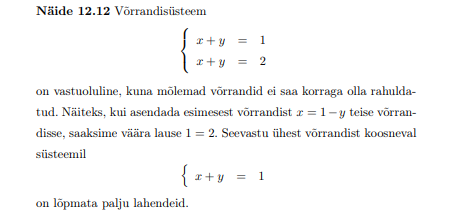
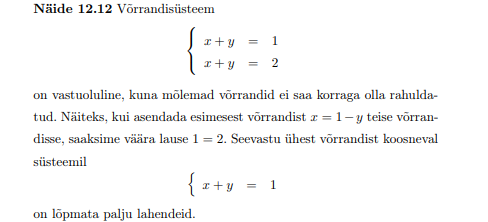
kt3kujundus+täiendus

diff --git a/html/kt3.html b/html/kt3.html
@@ -31,9 +31,14 @@
         <img src="../images/ulderidef.png" alt="Üldlahendi/erilahendi definitsioon" class="image2"> <br>
         <span class="tekst">Üldlahendi/erilahendi leidmine: </span> <br>
         <img src="../images/ülderinait.png" alt="Üldlahendi/erilahendi leidmine" class="image2"> <br>
-        <span class="teksteri"> </span> 
+
+        <span class="teksteri"></span> <br> <br> <br> <br> <br> <br> <br> <br> <br>
         <span class="tekst">Trapetsvalemi kasutamise näide: </span> <br>
         <img src="../images/tranaide.png" alt="Trapetsvalemi kasutamise näide" class="image2"> <br>
+        <span class="tekst">Newton-Leibnizi valem: </span> <br>
+        <img src="../images/newtondef.png" alt="Newton-Leibnizi valem" class="image2"> <br>
+        <span class="tekst">Newton-Leibnizi valemi kasutamise näide: </span> <br>
+        <img src="../images/newtonnaide.png" alt="Newton-Leibnizi kasutamise näide" class="image2"> <br>
 
     </div>
 
@@ -42,7 +47,11 @@
         <span class="tekst">Gaussi definitsioon: </span> <br>
         <img src="../images/gauss.png" alt="Gaussi definitsioon" class="image2"> <br>
         <span class="tekst">Gaussi elimineerimismeetodi näide: </span> <br>
-        <img src="../images/gausslahend.png" alt="Gaussi elimineerimismeetodi näide" class="image2"> <br>
+        <img src="../images/gausslahend.png" alt="Gaussi elimineerimismeetodi näide" class="image2"> <br> <br> <br> <br>
+        <span class="tekst">Absoluutväärtust sisaldavad avaldised: </span> <br>
+        <img src="../images/absfunk.png" alt="Absoluutväärtust sisaldavad avaldised" class="image2"> <br>
+        <span class="tekst">Absoluutväärtust sisaldavate avaldiste näide: </span> <br>
+        <img src="../images/absfunknait.png" alt="Absoluutväärtust sisaldavate avaldisedte kasutamise näide" class="image2"> <br>
     </div>
 
     <div id="img5">
@@ -52,7 +61,11 @@
         <span class="tekst">Triviaalne lahend: </span> <br>
         <img src="../images/trivlah.png" alt="Triviaalne lahend" class="image2"> <br>
         <span class="tekst">Lõpmata lahendeid, vabade muutujate arv: </span> <br>
-        <img src="../images/lopmatalah.png" alt="Lõpmata lahendeid, vabade muutujate arv" class="image2"> <br>
+        <img src="../images/lopmatalah.png" alt="Lõpmata lahendeid, vabade muutujate arv" class="image2"> <br> <br> <br> <br> <br> <br> <br> <br> <br> <br> <br> <br> <br> <br> <br>
+        <span class="tekst">Määratud integraal sümmeetriliselt paiknevate rajade korral: </span> <br>
+        <img src="../images/paaritudpaardef.png" alt="Määratud integraal sümmeetriliselt paiknevate rajade korral" class="image2"> <br>
+        <span class="tekst">Näide määratud integraal sümmeetriliselt paiknevate rajade korral: </span> <br>
+        <img src="../images/paaritudpaarnait.png" alt="Lõpmata lahendeid, vabade muutujate arv" class="image2"> <br>
     </div>
 
     

diff --git a/styles/kt3.css b/styles/kt3.css
@@ -13,5 +13,6 @@ a {
 }
 
 #img3 .teksteri{
-    margin-top: 3500px;
+    top: 4000px;
+    text-align: right;
 }
